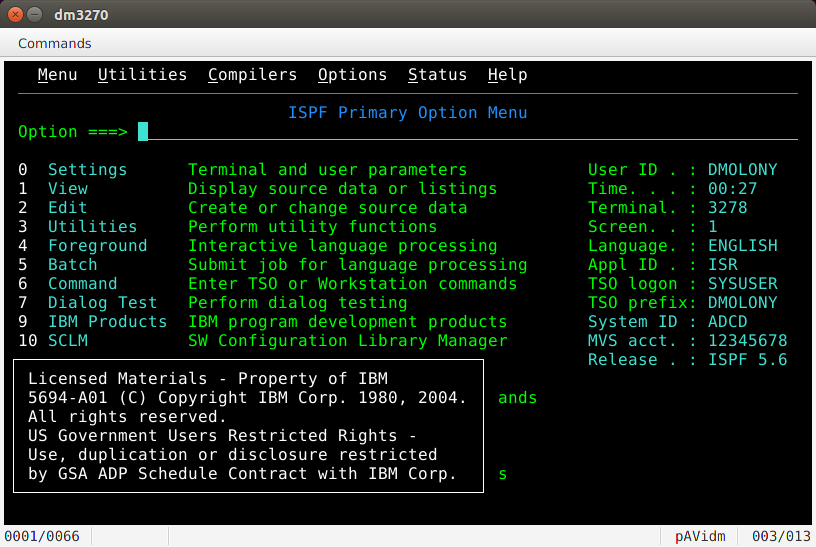
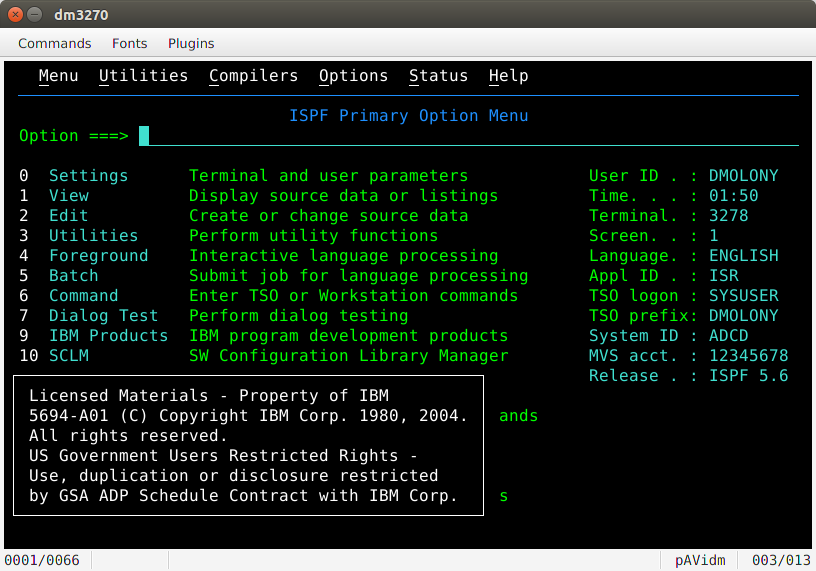
plugins and linux image

diff --git a/src/com/bytezone/dm3270/plugins/PluginsStage.java b/src/com/bytezone/dm3270/plugins/PluginsStage.java
@@ -4,6 +4,7 @@ import java.util.ArrayList;
 import java.util.List;
 import java.util.prefs.Preferences;
 
+import javafx.collections.ObservableList;
 import javafx.event.ActionEvent;
 import javafx.geometry.Insets;
 import javafx.scene.Scene;
@@ -21,12 +22,21 @@ import javafx.scene.layout.HBox;
 import javafx.scene.layout.VBox;
 
 import com.bytezone.dm3270.application.PreferencesStage;
+import com.bytezone.dm3270.display.Screen;
 
 public class PluginsStage extends PreferencesStage
 {
   private static final int MAX_PLUGINS = 10;
+  private static KeyCode[] keyCodes = { KeyCode.DIGIT1, KeyCode.DIGIT2, KeyCode.DIGIT3,
+                                       KeyCode.DIGIT4, KeyCode.DIGIT5, KeyCode.DIGIT6,
+                                       KeyCode.DIGIT7, KeyCode.DIGIT8, KeyCode.DIGIT9,
+                                       KeyCode.DIGIT0 };
+
   private final List<PluginEntry> plugins = new ArrayList<> (MAX_PLUGINS);
   private Menu menu;
+  private int requestMenus;
+  private int baseMenuSize;
+  private Screen screen;
 
   public PluginsStage (Preferences prefs)
   {
@@ -34,7 +44,6 @@ public class PluginsStage extends PreferencesStage
     setTitle ("Plugin Manager");
 
     readPrefs ();
-
     setMenu ();
 
     String[] headings = { "Menu entry", "Class name" };
@@ -91,6 +100,11 @@ public class PluginsStage extends PreferencesStage
     });
 
     cancelButton.setOnAction (e -> this.hide ());
+  }
+
+  public void setScreen (Screen screen)
+  {
+    this.screen = screen;
   }
 
   public PluginResult processAll (PluginScreen pluginScreen)
@@ -153,6 +167,7 @@ public class PluginsStage extends PreferencesStage
         menuItem.setOnAction (e -> itemSelected (e));
       }
     }
+    baseMenuSize = menu.getItems ().size ();
   }
 
   private void itemSelected (ActionEvent e)
@@ -160,6 +175,19 @@ public class PluginsStage extends PreferencesStage
     CheckMenuItem menuItem = ((CheckMenuItem) e.getSource ());
     PluginEntry pluginEntry = (PluginEntry) menuItem.getUserData ();
     pluginEntry.select (menuItem.isSelected ());
+    rebuildMenu ();
+  }
+
+  private void rebuildMenu ()
+  {
+    ObservableList<MenuItem> items = menu.getItems ();
+    while (items.size () > baseMenuSize)
+      items.remove (menu.getItems ().size () - 1);
+    menu.getItems ().add (new SeparatorMenuItem ());
+
+    for (PluginEntry pluginEntry : plugins)
+      if (pluginEntry.isActivated && pluginEntry.menuItem != null)
+        items.add (pluginEntry.menuItem);
   }
 
   private void readPrefs ()
@@ -189,6 +217,7 @@ public class PluginsStage extends PreferencesStage
     private final TextField[] textFieldList = { name, className };
     private Plugin plugin;
     private boolean isActivated;
+    private MenuItem menuItem;          // used to trigger a Request
 
     public PluginEntry (String name, String className)
     {
@@ -204,27 +233,19 @@ public class PluginsStage extends PreferencesStage
     public void select (boolean activate)
     {
       if (activate)
-      {
         plugin.activate ();
-        System.out.println (plugin.doesRequest ());
-        if (plugin.doesRequest ())
-        {
-          MenuItem menuItem = new MenuItem (name.getText ());
-          menuItem.setOnAction (e -> plugin.processRequest (null));
-          menuItem.setAccelerator (new KeyCodeCombination (KeyCode.DIGIT1,
-              KeyCombination.SHORTCUT_DOWN));
-          menu.getItems ().add (new SeparatorMenuItem ());
-          menu.getItems ().add (menuItem);
-        }
-      }
       else
         plugin.deactivate ();
-      isActivated = activate;
-    }
 
-    public boolean isActivated ()
-    {
-      return isActivated;
+      if (menuItem == null && plugin.doesRequest ())
+      {
+        menuItem = new MenuItem (name.getText ());
+        menuItem.setOnAction (e -> screen.processPluginRequest (plugin));
+        menuItem.setAccelerator (new KeyCodeCombination (keyCodes[requestMenus++],
+            KeyCombination.SHORTCUT_DOWN));
+      }
+
+      isActivated = activate;
     }
 
     public Plugin instantiate ()

diff --git a/src/com/bytezone/dm3270/display/Screen.java b/src/com/bytezone/dm3270/display/Screen.java
@@ -28,6 +28,7 @@ import com.bytezone.dm3270.attributes.StartFieldAttribute;
 import com.bytezone.dm3270.commands.AIDCommand;
 import com.bytezone.dm3270.orders.BufferAddress;
 import com.bytezone.dm3270.orders.Order;
+import com.bytezone.dm3270.plugins.Plugin;
 import com.bytezone.dm3270.plugins.PluginResult;
 import com.bytezone.dm3270.plugins.PluginScreen;
 import com.bytezone.dm3270.plugins.PluginsStage;
@@ -127,6 +128,7 @@ public class Screen extends Canvas
   public void setPlugins (PluginsStage pluginsStage)
   {
     this.pluginsStage = pluginsStage;
+    pluginsStage.setScreen (this);
   }
 
   public void displayText (String text)
@@ -326,6 +328,17 @@ public class Screen extends Canvas
       if (reply != null)
         System.out.println (reply);
     }
+  }
+
+  public void processPluginRequest (Plugin plugin)
+  {
+    int cursorPosition = cursor.getLocation ();
+    PluginScreen pluginScreen =
+        fieldManager.getPluginScreen (sequence++, 0, cursorPosition / columns,
+                                      cursorPosition % columns);
+    PluginResult reply = plugin.processOnRequest (pluginScreen);
+    if (reply != null)
+      System.out.println (reply);
   }
 
   // ---------------------------------------------------------------------------------//

diff --git a/src/com/bytezone/dm3270/display/ScreenPosition.java b/src/com/bytezone/dm3270/display/ScreenPosition.java
@@ -247,7 +247,7 @@ public class ScreenPosition
         {
           gc.setStroke (screenContext.foregroundColor);
           double y2 = y + ascent + descent + 1;
-          gc.strokeLine (x + 1, y2, x + 1 + charWidth, y2);
+          gc.strokeLine (x + 1, y2, x + charWidth, y2);
         }
       }
     gc.translate (-0.5, -0.5);        // restore coordinate grid

diff --git a/src/com/bytezone/dm3270/plugins/Plugin.java b/src/com/bytezone/dm3270/plugins/Plugin.java
@@ -11,7 +11,7 @@ public interface Plugin
 
   public PluginResult processAuto (PluginScreen screen);
 
-  public PluginResult processRequest (PluginScreen screen);
+  public PluginResult processOnRequest (PluginScreen screen);
 
   public void deactivate ();
 

diff --git a/src/com/bytezone/dm3270/plugins/DefaultPlugin.java b/src/com/bytezone/dm3270/plugins/DefaultPlugin.java
@@ -25,7 +25,7 @@ public abstract class DefaultPlugin implements Plugin
   }
 
   @Override
-  public PluginResult processRequest (PluginScreen screen)
+  public PluginResult processOnRequest (PluginScreen screen)
   {
     return null;
   }
